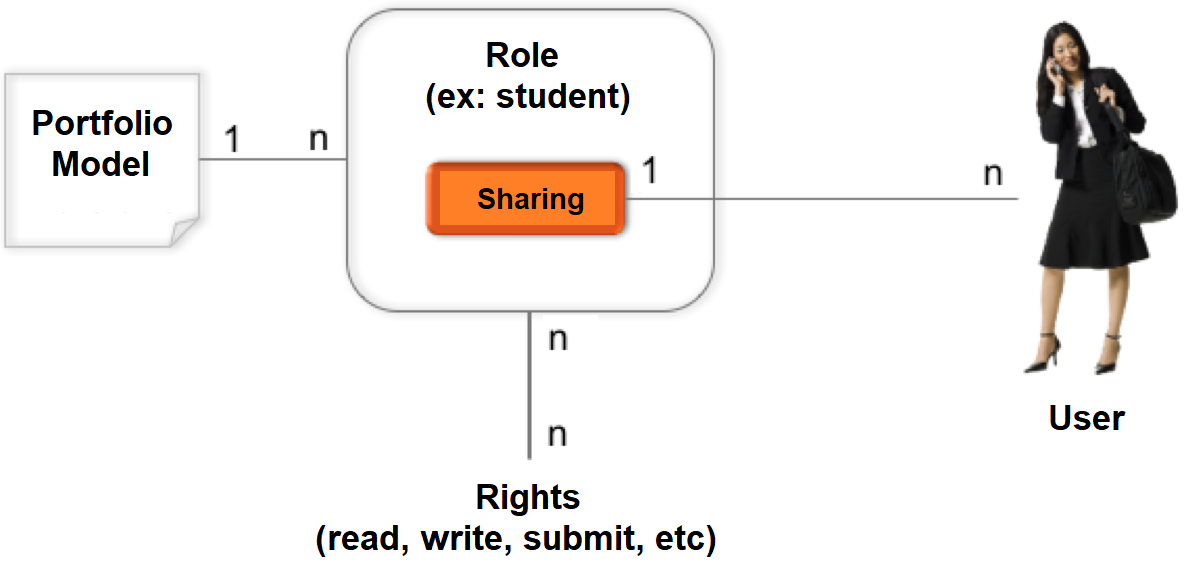
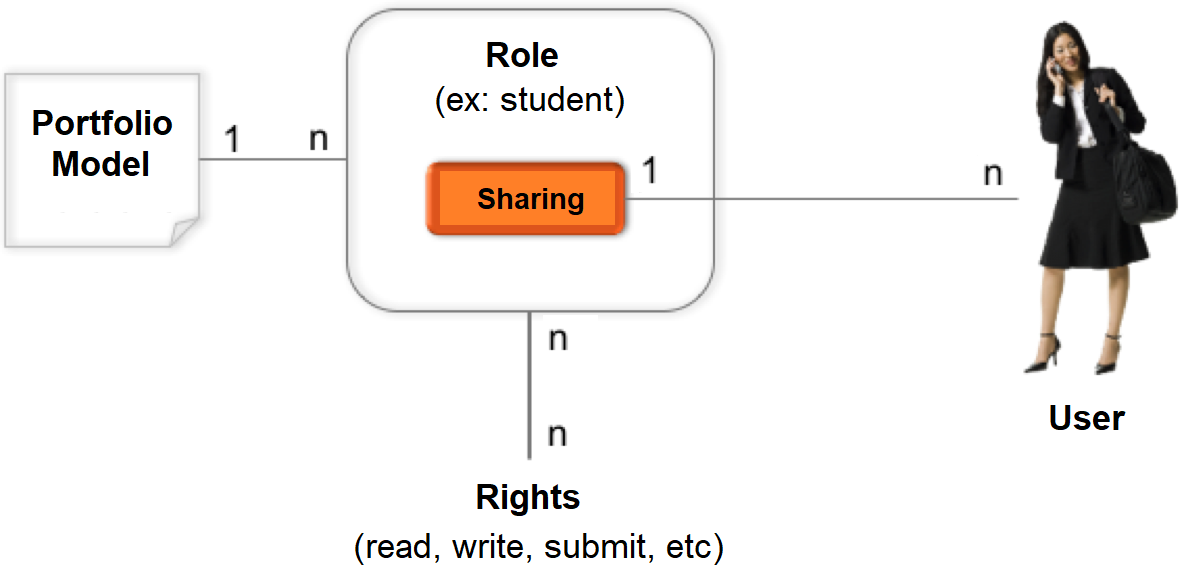
corrections

Changed region(s): [[0.25, 0.9016, 0.625, 0.9637], [0.3438, 0.1244, 0.5312, 0.2176]]

diff --git a/_pages/portfolio_en.html b/_pages/portfolio_en.html
@@ -104,18 +104,18 @@ sidebar:
 <p></p>
 <img src='../assets/img/modele-securite_en.png' width='50%'/>
 <ul>
-	<li>A portfolio has associated <b>roles</b>.</li>
+	<li>A portfolio has associated <b>roles</b> (example student, teacher, etc).</li>
 	<li>
 		A role has associated <b>rights</b> (read, write, submit, etc.) for each of the portfolio
 		elements.
 	</li>
 	<li>Sharing a portfolio is done by indicating a user and a role.</li>
 </ul>
-<img src='../assets/img/partage.png' width='80%'/>
+<img src='../assets/img/partage_en.png' width='80%'/>
 
 <h3>Simulation of the Roles by the Designer</h3>
 <p>
 	In the portfolio model, the designer may (and should!) simulate the various roles he or she has
 	created to verify the rights attributed on each element.
 </p>
-<img src='../assets/img/simulation-roles.png' width='50%'/>
+<img src='../assets/img/simulation-roles_en.png' width='50%'/>
